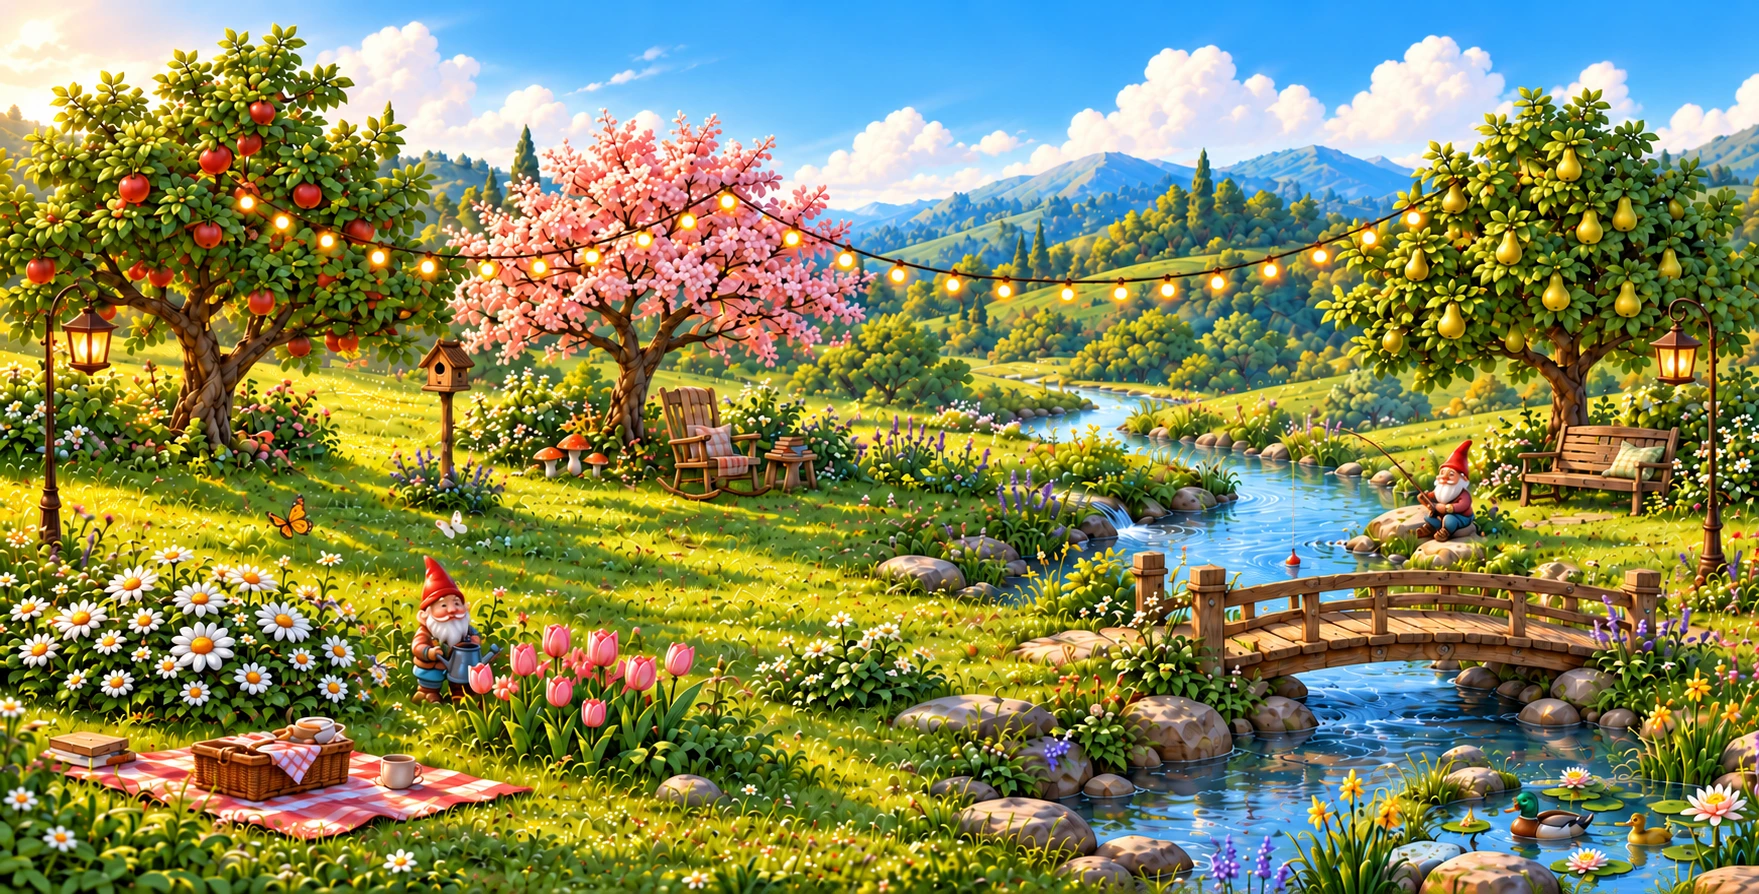
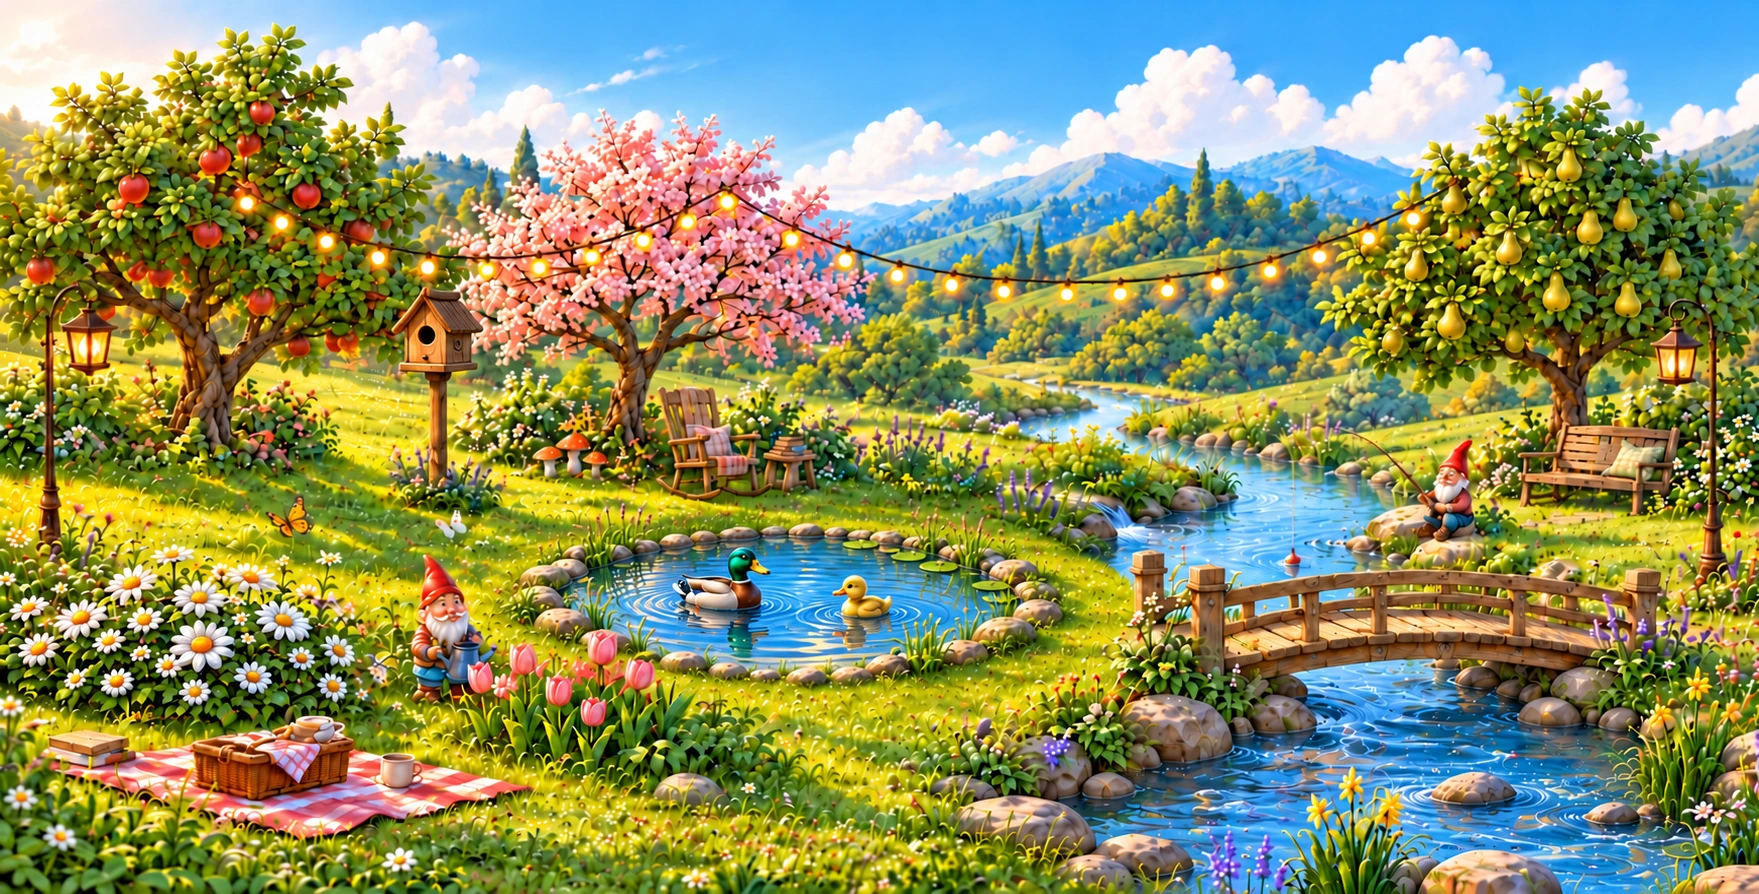
Move duck pond and raise the garden birdhouse

diff --git a/src/IntegratedGarden.jsx b/src/IntegratedGarden.jsx
@@ -66,7 +66,7 @@ export default function IntegratedGarden({ garden, stageName }) {
       <Plant garden={garden} id="apple" x={-10} y={15} width={470} height={450}/>
       <Plant garden={garden} id="cherry" x={445} y={95} width={440} height={395}/>
       <Plant garden={garden} id="pear" x={1320} y={70} width={440} height={450}/>
-      {item('birdhouse', 390, 320, 110, 180)}
+      {item('birdhouse', 372, 265, 146, 235)}
       {item('fence', 650, 380, 180, 130)}
       {item('mushrooms', 530, 435, 90, 60)}
       {item('bench', 1510, 420, 180, 115)}
@@ -76,12 +76,12 @@ export default function IntegratedGarden({ garden, stageName }) {
       </g>}
       <Garland garden={garden} glowId={glowId}/>
       <Plant garden={garden} id="flowers" x={-5} y={535} width={385} height={205}/>
+      {item('pond', 455, 490, 550, 187)}
       {item('gnome', 392, 552, 115, 165)}
       <Plant garden={garden} id="tulips" x={455} y={610} width={285} height={190}/>
       {item('gnome-fisher', 1250, 413, 245, 165)}
       {item('bridge', 1115, 545, 580, 210, 'none')}
       {item('picnic', 15, 665, 440, 220)}
-      {item('pond', 1390, 745, 370, 160)}
       {item('butterflies', 265, 490, 210, 70)}
       </>}
     </svg>
